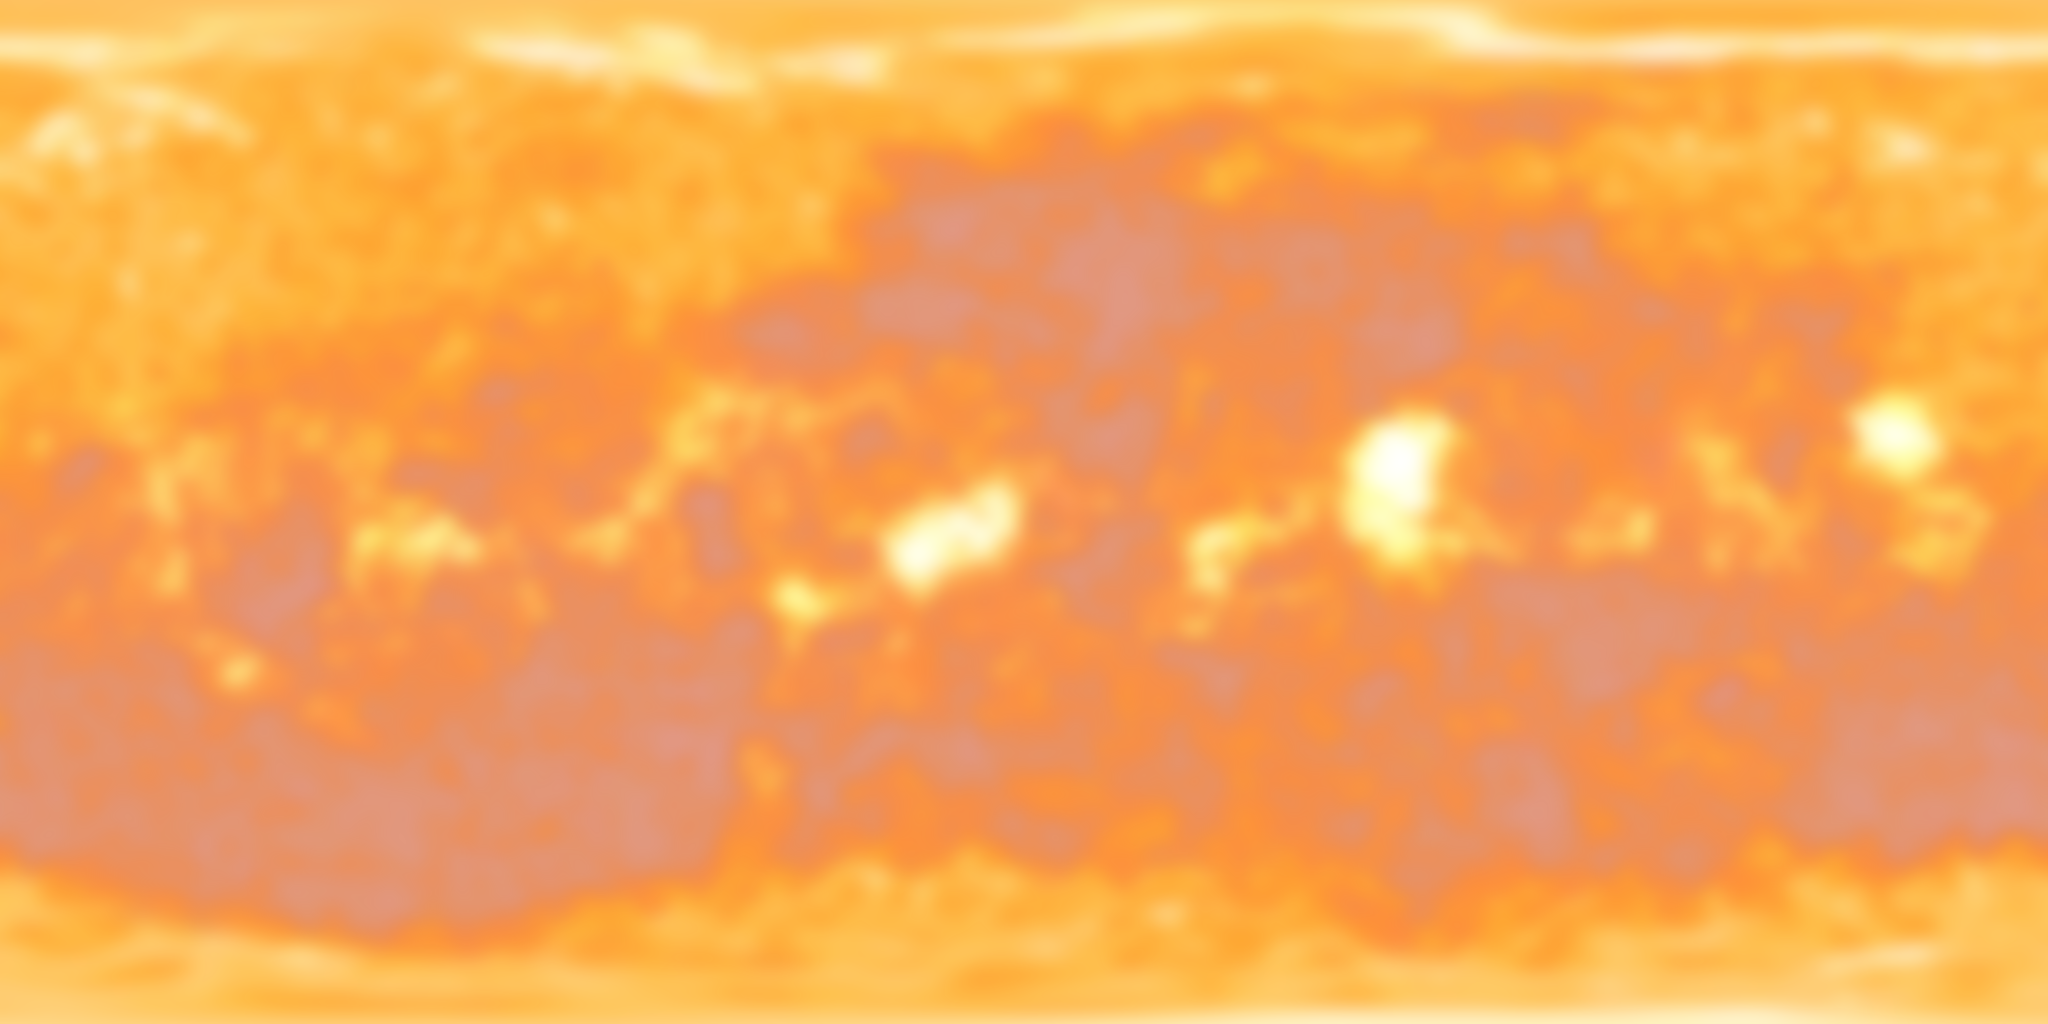
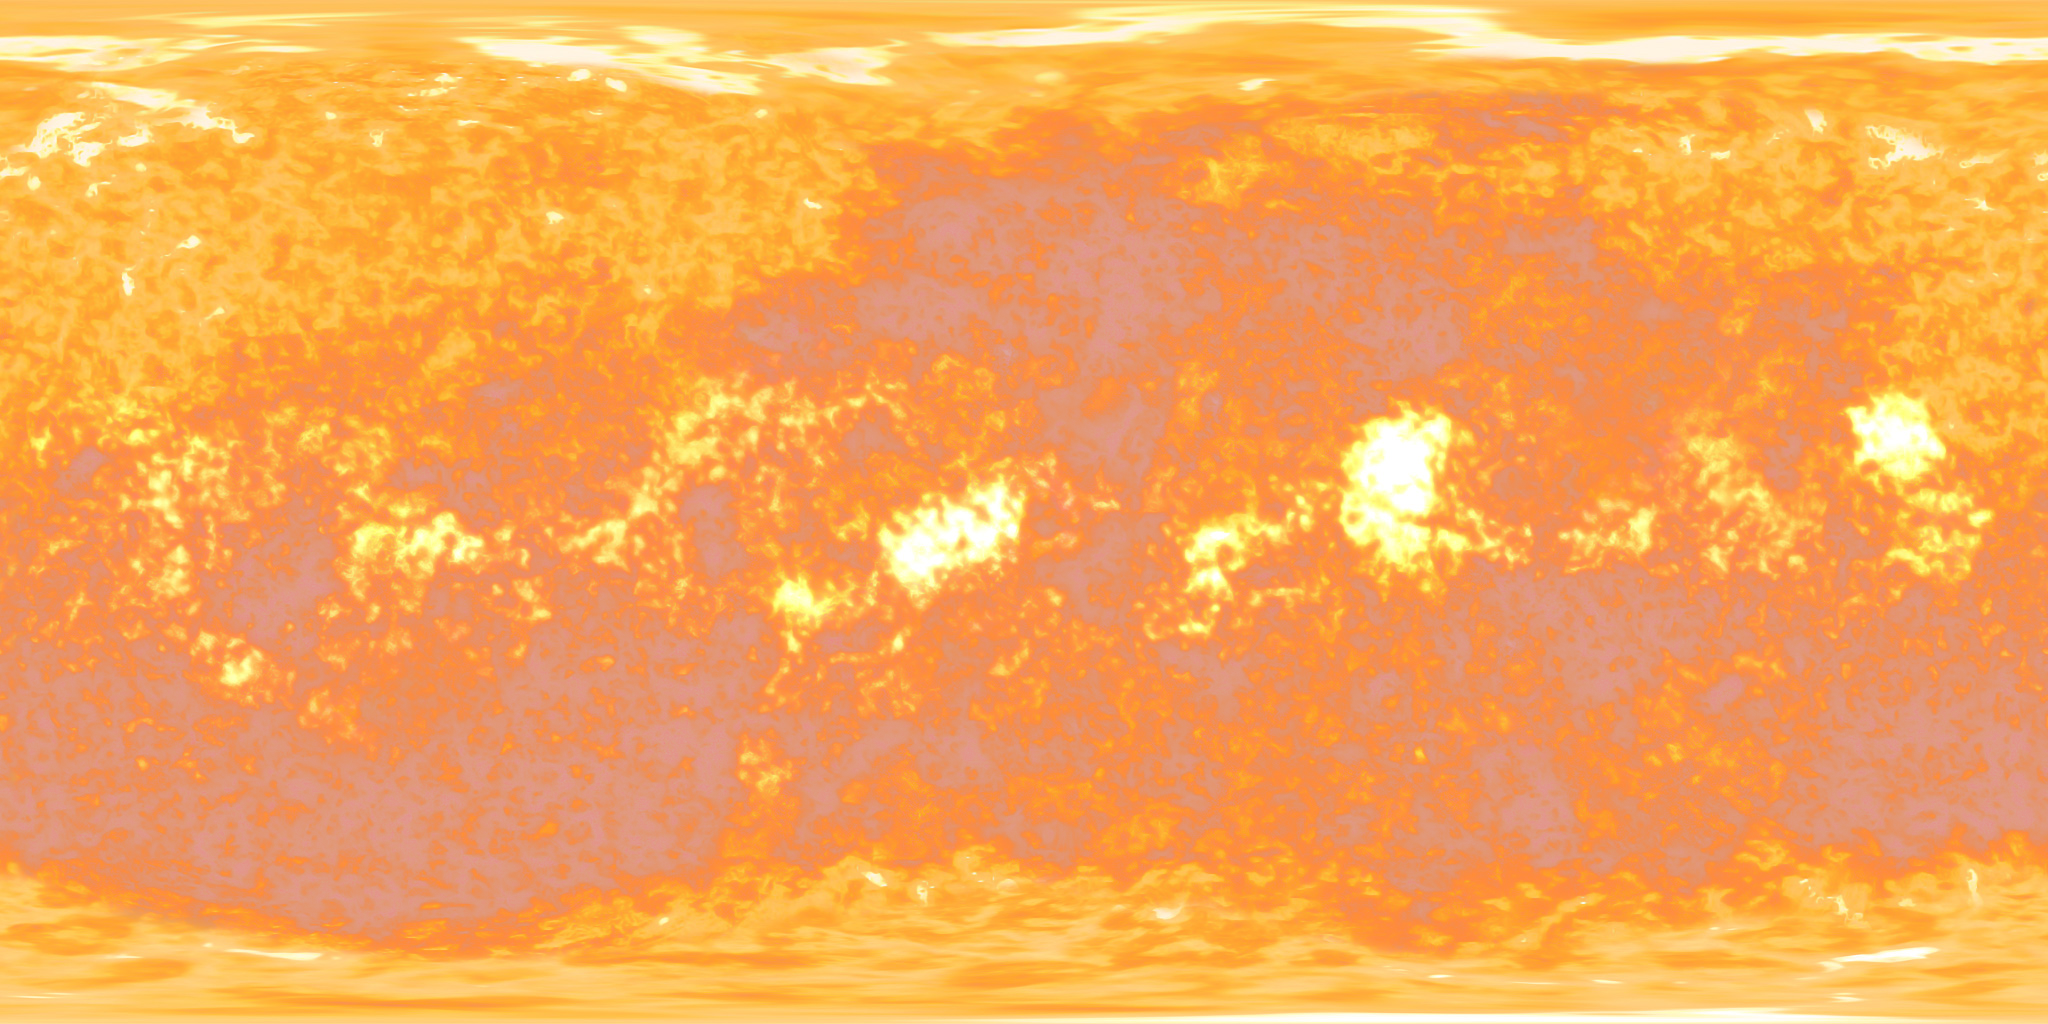
test

diff --git a/solarsystem/index.html b/solarsystem/index.html
@@ -10,11 +10,11 @@
 <a-assets>
   <img id="milkyway" src="media/2k_stars.jpg">
   <img id="sun-texture" src="media/2k_sun.jpg">
-  <img id="sun-flare" src="media/2k_sun_flares.png"
+  <img id="sun-flare" src="media/2k_sun_flares.png">
   <img id="mercury-texture" src="media/2k_mercury.jpg">
   <img id="venus-texture" src="media/2k_venus_atmosphere.jpg">
   <img id="earth-texture" src="media/2k_earth_daymap.jpg">
-  <img id="earth-clouds" src="media/2k_earth_clouds.png"
+  <img id="earth-clouds" src="media/2k_earth_clouds.png">
   <img id="mars-texture" src="media/2k_mars.jpg">
   <img id="jupiter-texture" src="media/2k_jupiter.jpg">
   <img id="saturn-texture" src="media/2k_saturn.jpg">
@@ -26,7 +26,7 @@
 
 <a-sky src="#milkyway"></a-sky>
 
-<a-entity light="type: ambient; color: white; intensity: 0.5"></a-entity>
+<!--a-entity light="type: ambient; color: white; intensity: 0.5"></a-entity-->
 
 <a-entity light="type: point; color: white; intensity: 1" position="-1 0 0">
 </a-entity>
@@ -43,7 +43,7 @@
 <a-sphere id="sun"
 material="
 src: #sun-texture;
-emissive: #ffff00;
+emissive: orange;
 emissiveIntensity: 0.5;"
 
 position="0 0 0"
@@ -59,7 +59,8 @@ easing: linear;">
 material="
 src: #sun-flare;
 emissive: #ffff00;
-emissiveIntensity: 0.5;""
+emissiveIntensity: 0.5;
+blending:  additive;"
 opacity="0.99";
 position="0 0 0"
 radius ="1.01"
@@ -144,7 +145,6 @@ loop: true;
 dur: 990;
 easing: linear;">
 </a-sphere>
-
 </a-entity>
 
 <a-entity id="mars"
